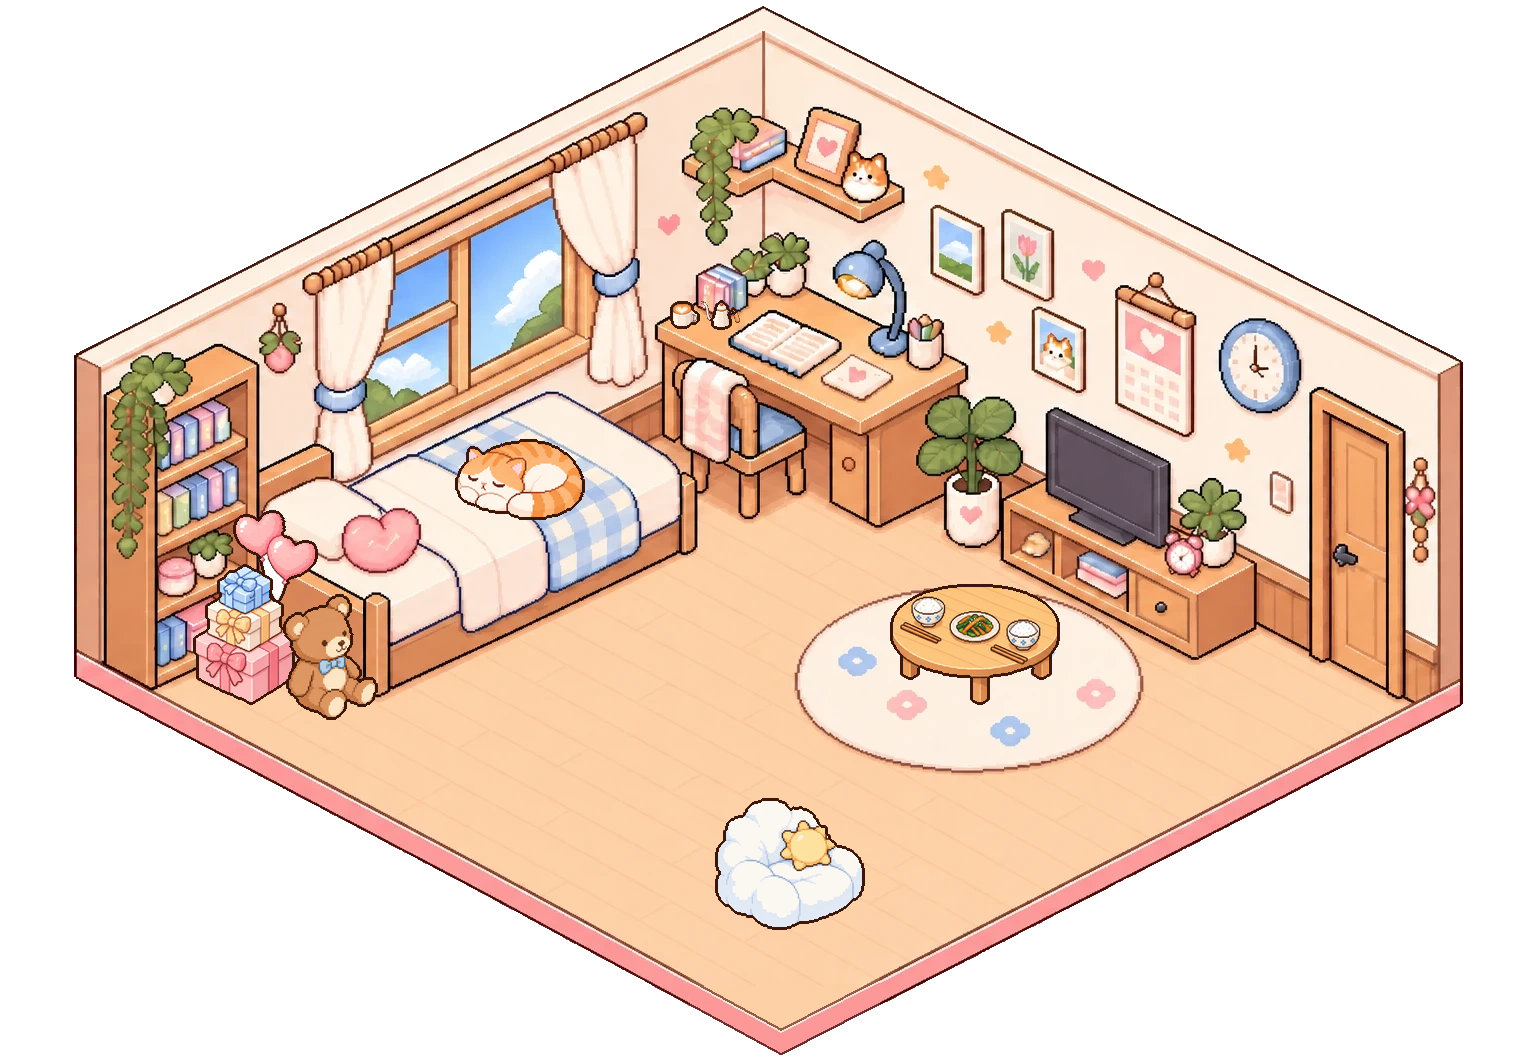
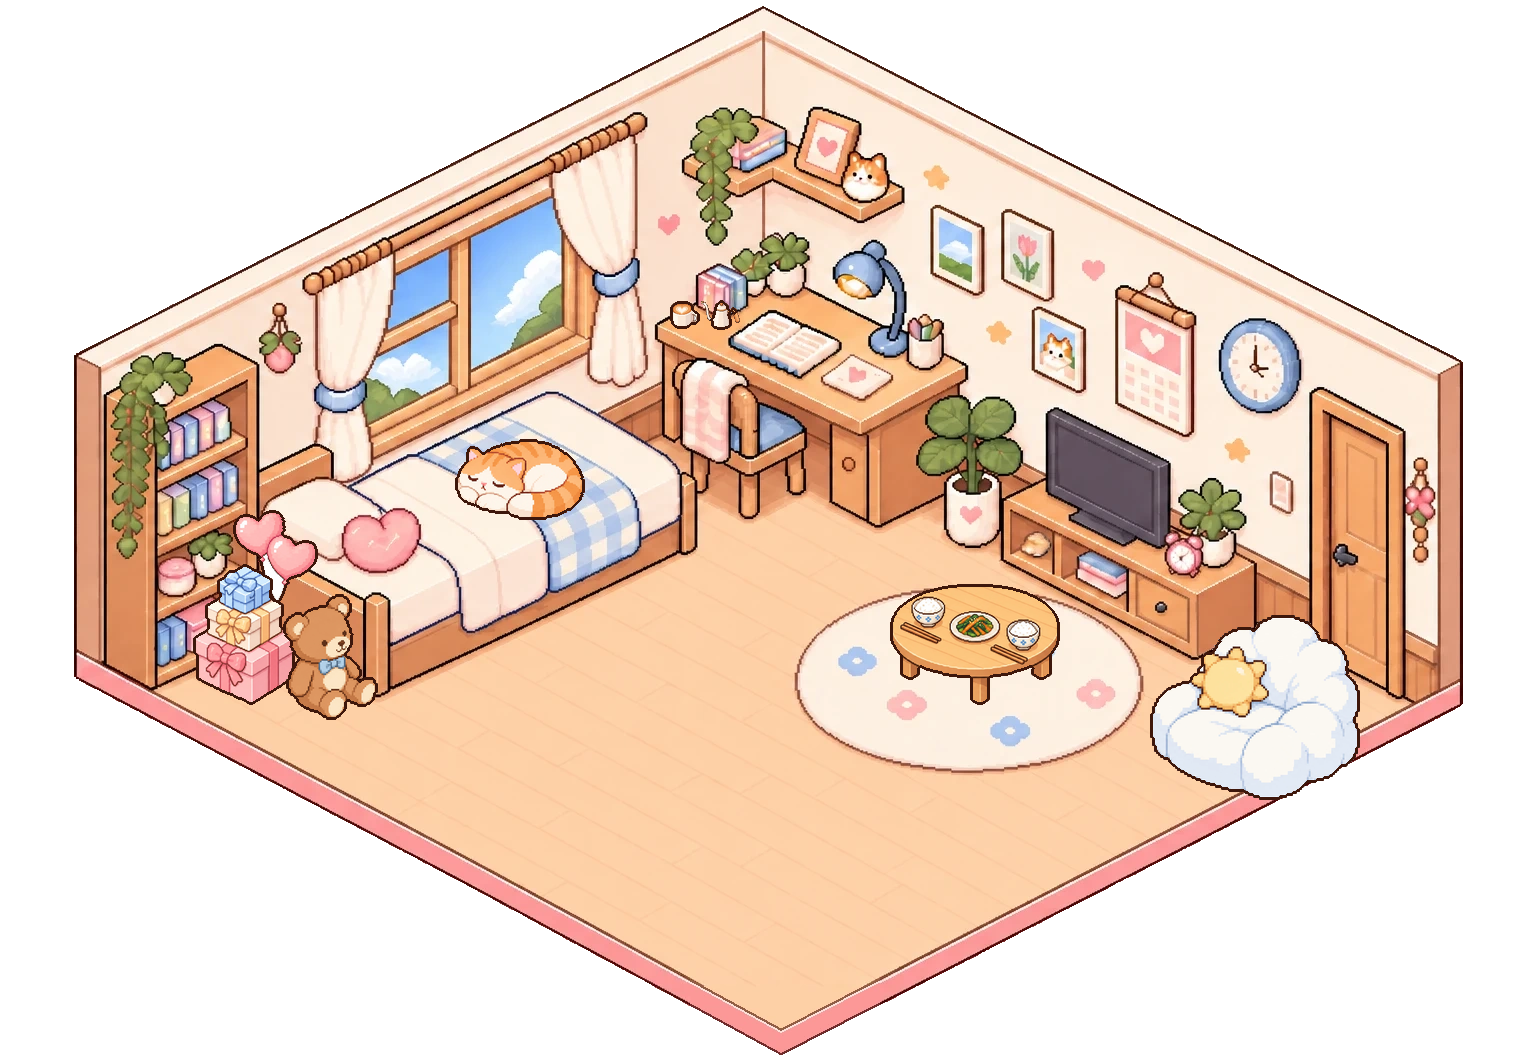
Mockup: bigger cloud sofa by the door, flipped to face the room
Claude-Session: https://claude.ai/code/session_01HNLjjDhwiWZnZmJhscAi2v

Changed region(s): [[0.75, 0.5583, 0.9062, 0.7754], [0.4688, 0.7444, 0.5625, 0.8684]]

diff --git a/art/tools/furniture_mock.py b/art/tools/furniture_mock.py
@@ -19,9 +19,11 @@ import sys
 RELINE='--raw' not in sys.argv
 room=Image.open('public/room/pixel_room/room.webp').convert('RGBA')
 # key: (中心x, 底部y, 寬)
-PLACE={'hearts':(275,650,85),'gift':(245,705,105),'cat':(520,520,130),'coffee':(705,330,70),'meal':(975,705,170),'bear':(330,720,95),'sunset':(790,930,150)}
+PLACE={'hearts':(275,650,85),'gift':(245,705,105),'cat':(520,520,130),'coffee':(705,330,70),'meal':(975,705,170),'bear':(330,720,95),'sunset':(1255,800,210)}
+FLIP={'sunset'}  # 左右翻面：靠右牆、面向房間
 for k,(cx,by,w) in PLACE.items():
     im=white_cut(f'art/source/furniture/{k}.png')
+    if k in FLIP: im=im.transpose(Image.FLIP_LEFT_RIGHT)
     im=im.resize((w,round(im.height*w/im.width)),Image.LANCZOS)
     if RELINE: im=reline(im)
     room.alpha_composite(im,(cx-w//2,by-im.height))
